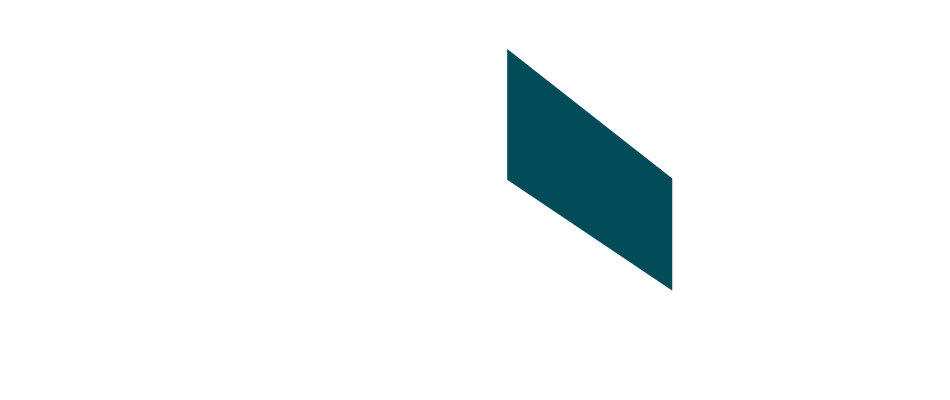
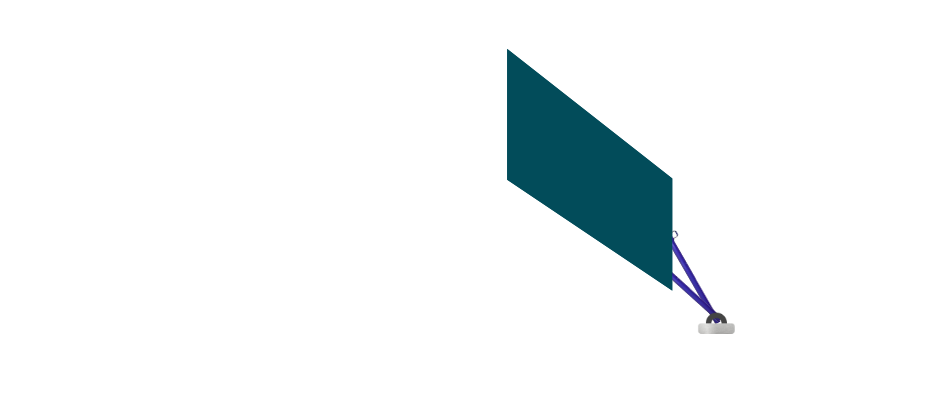
3rd spiral stage

Changed region(s): [[0.7021, 0.57, 0.7937, 0.84]]

diff --git a/CE3/main.js b/CE3/main.js
@@ -683,9 +683,12 @@ const Scenes = {
     resultTable: new Dom(".result-table"),
     certificate: new Dom(".certificate"),
     welcomeBox: new Dom(".welcome-box"),
-    videoBoxSrc: new Dom(".video-box .video"),
     videoBox: new Dom(".video-box"),
+    videoBoxSrc: new Dom(".video-box .video"),
     videoBoxTitle: new Dom(".video-box .title"),
+    imageBox: new Dom(".image-box"),
+    imageBoxSrc: new Dom(".image-box .image"),
+    imageBoxTitle: new Dom(".image-box .title"),
     tempTitle1: new Dom(".temp-title1"),
     tempTitle2: new Dom(".temp-title2"),
     tempTitle3: new Dom(".temp-title3"),
@@ -803,7 +806,9 @@ const Scenes = {
     full_foundation_front4: new Dom("full_foundation_front4"),
     pipe_waler_clamp_full: new Dom("pipe_waler_clamp_full"),
     wing_nut_full: new Dom("wing_nut_full"),
-
+    real_head_adapter: new Dom("real_head_adapter"),
+    real_foot_adapter: new Dom("real_foot_adapter"),
+    
     
 
   },
@@ -1137,9 +1142,9 @@ const Scenes = {
 
       let contentAdderBtns = getAll(".content-adder-box .btn")
 
-      Scenes.items.form_floor_corner1.set(-750,75)
-      Scenes.items.panel1.set(-750,75)
-      Scenes.items.waler_clip1.set(-750,252,50)
+      Scenes.items.form_floor_corner1.set(-50,75)
+      Scenes.items.panel1.set(-250,75)
+      Scenes.items.waler_clip1.set(-50,252,50)
 
       function walerClicpAnime(){
         anime({
@@ -1258,7 +1263,7 @@ const Scenes = {
               targets: [Scenes.items.form_floor_corner2.item],
               left: 121,
               top: 89,
-              duration: 2000,
+              duration: 1000,
               complete(){
                 Dom.setBlinkArrow(true, 710,15).play();
                 setCC("Click on the 'Floor Panel' to add it in the lab.");
@@ -1422,6 +1427,7 @@ const Scenes = {
                 easing: "easeInOutQuad",
               })
               .add({
+                delay: 2000,
                 targets: Scenes.items.waler_clip13.item,
                 left: 150+gap,
                 top: 110,
@@ -1459,7 +1465,7 @@ const Scenes = {
       contentAdderBtns[2].onclick = walerClipAnime;
       contentAdderBtns[3].onclick = ()=>{
         floorPanelAnime()
-        if(walerClipCount===4){
+        if(walerClipCount===3){
           floorCornerAnime()
         }
         setTimeout(walerClipAnime,1500);
@@ -1482,9 +1488,6 @@ const Scenes = {
       
       // setCC("Click on the 'Sheathing Left' to add sheathing in form panel.");
       // Dom.setBlinkArrow(true, 685, -35).play();
-
-
-
 
       return true;
     }),
@@ -1537,6 +1540,10 @@ const Scenes = {
      Scenes.items.pipe_waler_connector7.set(760,330,30,20).zIndex(5)
      Scenes.items.pipe_waler_connector8.set(785,330,30,20).zIndex(5)
 
+     Scenes.items.larrow2.set(783,280,50)
+     Scenes.items.pipe_waler_clamp_full.set(850,250,60)
+     Scenes.items.tempTitle1.set(850,320,60).setContent("Waler clamp")
+
      
 
     //! final pos
@@ -1552,11 +1559,11 @@ const Scenes = {
     //  Scenes.items.pipe_waler_connector7.set(456,204,30,20).zIndex(5)
     //  Scenes.items.pipe_waler_connector8.set(612,204,30,20).zIndex(5)
 
-      // content adder
-      Scenes.items.contentAdderBox.set(null, -50).show("flex").push();
-      Scenes.contentAdderAddBtn("Pipe Waler");
-      Scenes.contentAdderAddBtn("Pipe Clamp");
-      let contentAdderBtns = getAll(".content-adder-box .btn");
+    // content adder
+    Scenes.items.contentAdderBox.set(null, -50).show("flex").push()
+    Scenes.contentAdderAddBtn("Pipe Waler")
+    Scenes.contentAdderAddBtn("Pipe Clamp")
+    let contentAdderBtns = getAll(".content-adder-box .btn")
       
      let pipeCount = 0;
      const pipeWalerAnime = ()=>{
@@ -1588,7 +1595,6 @@ const Scenes = {
             }
           })
           break;
-          
       }
       pipeCount++;
      }
@@ -1633,6 +1639,11 @@ const Scenes = {
             duration: 1000,
           })
           .add({
+            begin(){
+              Scenes.items.larrow2.hide()
+              Scenes.items.pipe_waler_clamp_full.hide()
+              Scenes.items.tempTitle1.hide()
+            },
             targets: Scenes.items.pipe_waler_connector5.item,
             left: 142,
             top: 204,
@@ -2195,6 +2206,11 @@ const Scenes = {
     
     Scenes.items.foot_adapter1.set(510,310,75).zIndex(12)
 
+    // image Box
+    Scenes.items.imageBox.show("flex").set(750,200)
+    Scenes.items.imageBoxSrc.item.src = "./src/images/real_head_adapter.png";
+    Scenes.items.imageBoxTitle.setContent("Head Adapter")
+
     //! remove
     // Scenes.items.head_adapter1.set(220,129,25).zIndex(10)
     // Scenes.items.head_adapter2.set(220,212,25).zIndex(10)
@@ -2244,7 +2260,7 @@ const Scenes = {
             top:212,
             complete(){
               setCC("Click on the 'Foot Adapter' to support the CT Prop.")
-              Dom.setBlinkArrow(ture,660,15).play()
+              Dom.setBlinkArrow(true,700,15).play()
             }
           })
           break
@@ -2298,7 +2314,7 @@ const Scenes = {
             duration: 1000,
             complete(){
               setCC("Click on the 'CT Prop' to support the form floor panel.")
-              Dom.setBlinkArrow(ture,660,65).play()
+              Dom.setBlinkArrow(true,700,65).play()
             }
           })
           break
@@ -2339,7 +2355,6 @@ const Scenes = {
             left:135, 
             top:115,
             rotate: 35
-              
           })
           .add({
             targets: Scenes.items.ct_prop2.item,
@@ -2357,7 +2372,7 @@ const Scenes = {
               Scenes.items.foot_adapter2.set(510,310,75).zIndex(12)
 
               setCC("Click on the 'Repeat' to repeat the previous steps.")
-              Dom.setBlinkArrow(ture,660,115).play()
+              Dom.setBlinkArrow(true,700,115).play()
             }
           })
           break
@@ -2386,6 +2401,10 @@ const Scenes = {
               Scenes.items.head_adapter6.set(440,360,25).zIndex(10)
               
               Scenes.items.foot_adapter3.set(510,310,75).zIndex(12)
+
+              //! for image box
+              Scenes.items.imageBoxSrc.item.src = "./src/images/real_foot_adapter.png";
+              Scenes.items.imageBoxTitle.setContent("Foot Adapter")
             }  
           })
           
@@ -2406,8 +2425,14 @@ const Scenes = {
             targets: Scenes.items.ct_prop6.item,
             left:455, 
             top:190,
-            rotate: 50
+            rotate: 50,
+            complete(){
               
+
+              setCC("Click 'Next' to go to next step");
+              Dom.setBlinkArrow(true, 790, 408).play();
+              setIsProcessRunning(false);
+            }
           })
           break
       }
@@ -2416,7 +2441,7 @@ const Scenes = {
     }
 
     setCC("Click on the 'Head Adapter' to attach it with steel waler.")
-    Dom.setBlinkArrow(true,660,115).play()
+    Dom.setBlinkArrow(true,700,-35).play()
     //onclick
     contentAdderBtns[0].onclick = headAdapterAnime
     contentAdderBtns[1].onclick = footAdapterAnime
@@ -2567,9 +2592,9 @@ const Scenes = {
       
     }
   },
-};
+}
 
-Scenes.next(); 
+Scenes.steps[2](); 
 // Scenes.next();
 // Scenes.next();
 // Scenes.next();

diff --git a/CE3/layout.html b/CE3/layout.html
@@ -174,8 +174,7 @@
               <p class="step-title">Step 1</p>
               <p class="step-description">
                 Calculation of cross-sectional area:
-              </p>
-            </div>
+              </p></div>
             <section class="anime-main">
               <!-- * Welcome note About Experiment-->
               <div class="welcome-box">
@@ -1153,6 +1152,20 @@
                 alt="Wing Nut"
               />
 
+              <img
+                class="main-window-imgs"
+                src="./src/images/real_head_adapter.png"
+                title="Head Adapter"
+                alt="Head Adapter"
+              />
+
+              <img
+                class="main-window-imgs"
+                src="./src/images/real_foot_adapter.png"
+                title="Foot Adapter"
+                alt="Foot Adapter"
+              />
+
               <!-- * Videos -->
               <!-- <video muted class="main-window-videos" src="./src/videos/yoke_front_to_back.mp4"></video> -->
 
@@ -1165,6 +1178,12 @@
                     <img src="./src/images/restart_btn.png" alt="" />
                   </button>
                 </div>
+              </div>
+
+              <!-- * Image Box -->
+              <div class="image-box">
+                <img class="image" src="" alt="">
+                <p class="title">Image Box</p>
               </div>
 
               <!-- * Content Adder Box -->

diff --git a/CE3/layout.css b/CE3/layout.css
@@ -344,3 +344,28 @@ body{
     position: absolute;
 
   }
+
+  
+  .image-box{
+    /* display: flex; */
+    display: none;
+    border: 2px solid;
+    text-align: center;
+    flex-direction: column;
+    justify-content: center;
+    /* background-color: white; */
+    height: fit-content;
+    width: fit-content;
+    position: absolute;
+    padding: 3px;
+    border-radius: 10px;
+    box-shadow: 5px 5px 14px ;
+  }
+  .image-box .title{
+    margin: 0;
+    font-weight: bold;
+  }
+  .image-box .image{
+    border-radius: 10px;
+
+  }

diff --git a/CE3/src.js b/CE3/src.js
@@ -121,6 +121,8 @@ const src = {
       full_foundation_front4: this.allImgsDom[112], 
       pipe_waler_clamp_full: this.allImgsDom[113], 
       wing_nut_full: this.allImgsDom[114], 
+      real_head_adapter: this.allImgsDom[115],
+      real_foot_adapter: this.allImgsDom[116],
       
       // * Videos
       // yoke_front_to_back: this.allVideosDom[0],
